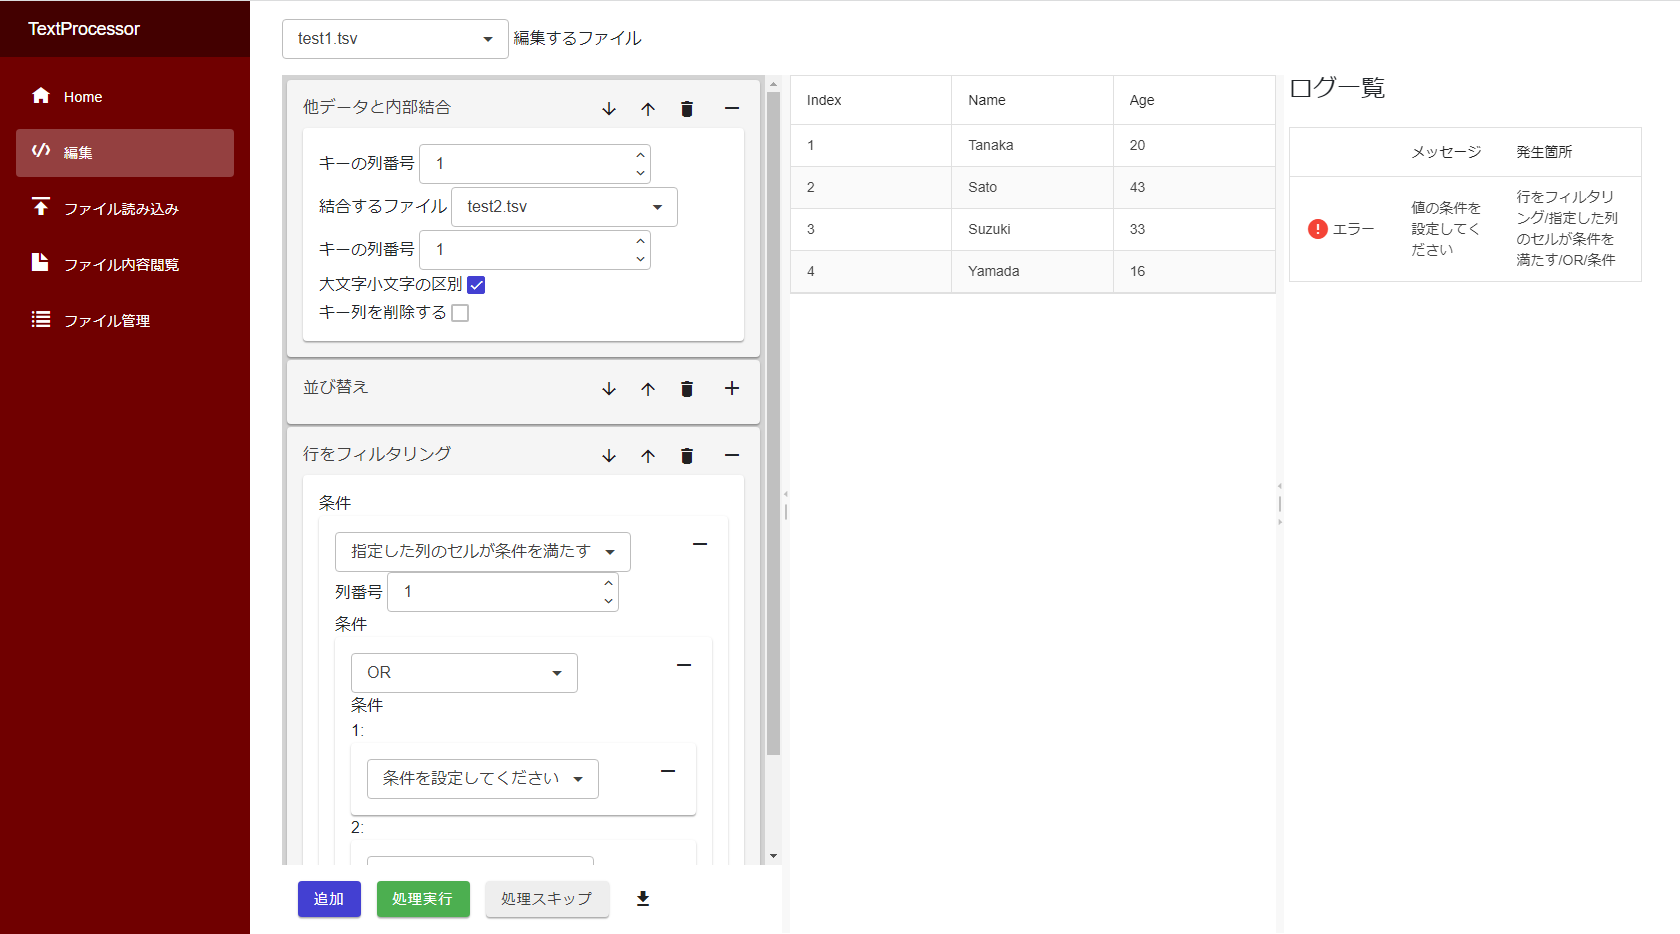
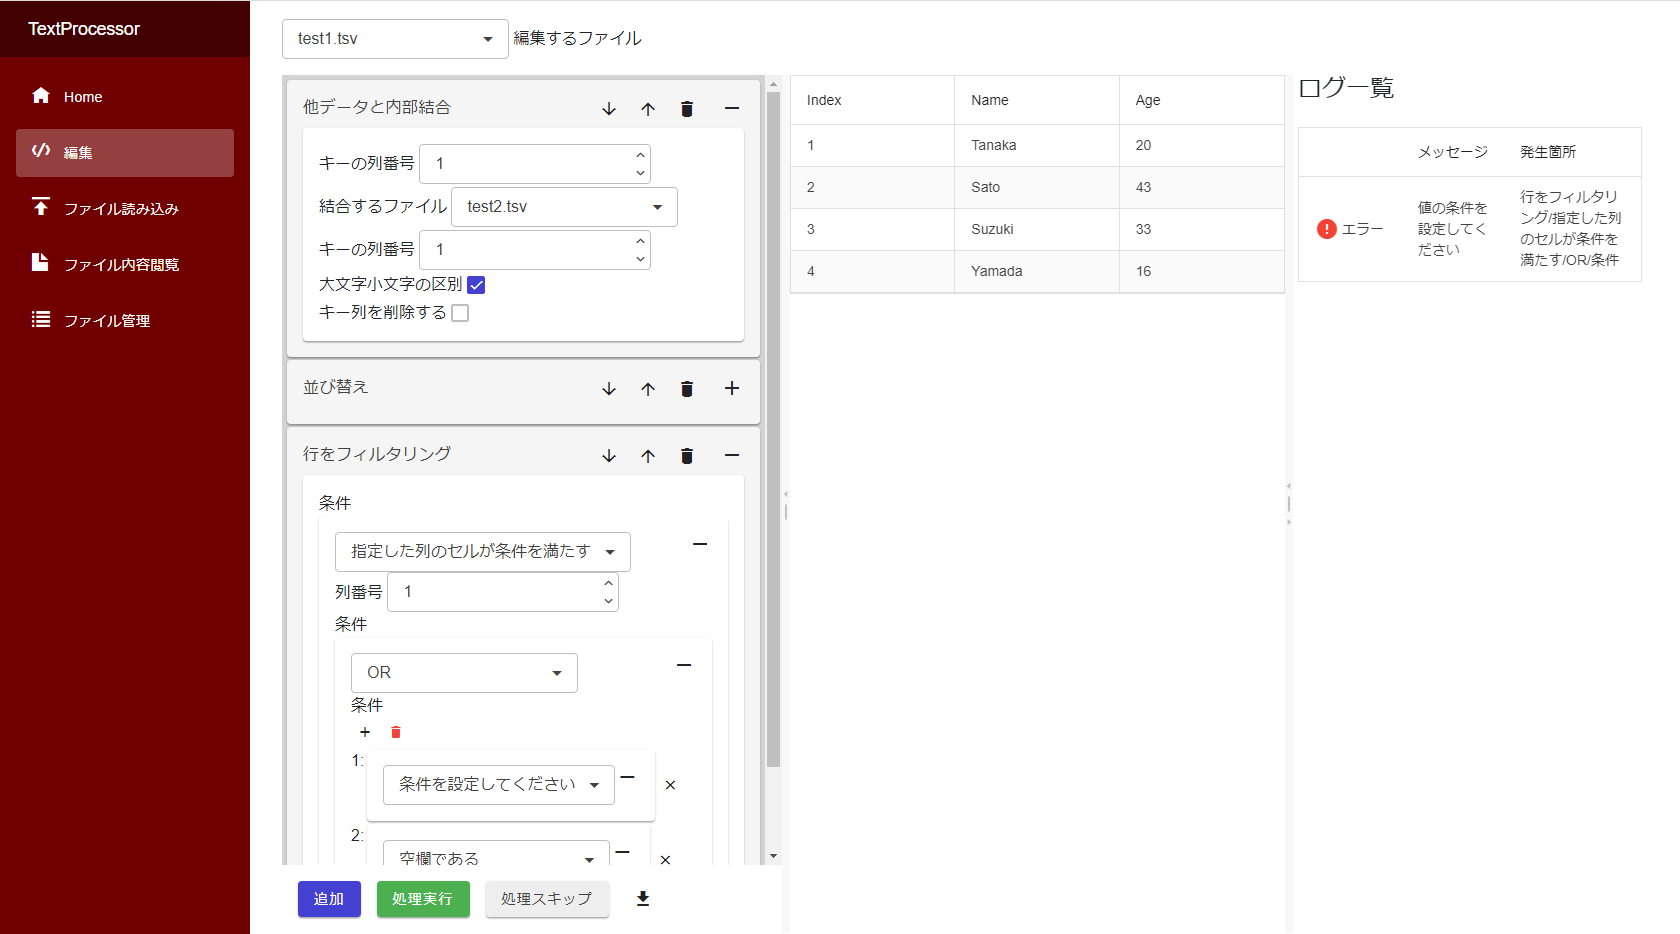
update index

diff --git a/docs/RelNote.md b/docs/RelNote.md
@@ -1,5 +1,7 @@
 # リリースノート
 
+- Ver. 1.2.2 (2023/09/12)
+  - AND条件・OR条件に任意の数の条件を指定できるように変更
 - Ver. 1.2.1 (2023/09/11)
   - 「値を置換」の処理で正規表現を使用した際に正常な検索が行われなかった不具合を修正
 - Ver. 1.2.0 (2023/09/07)
